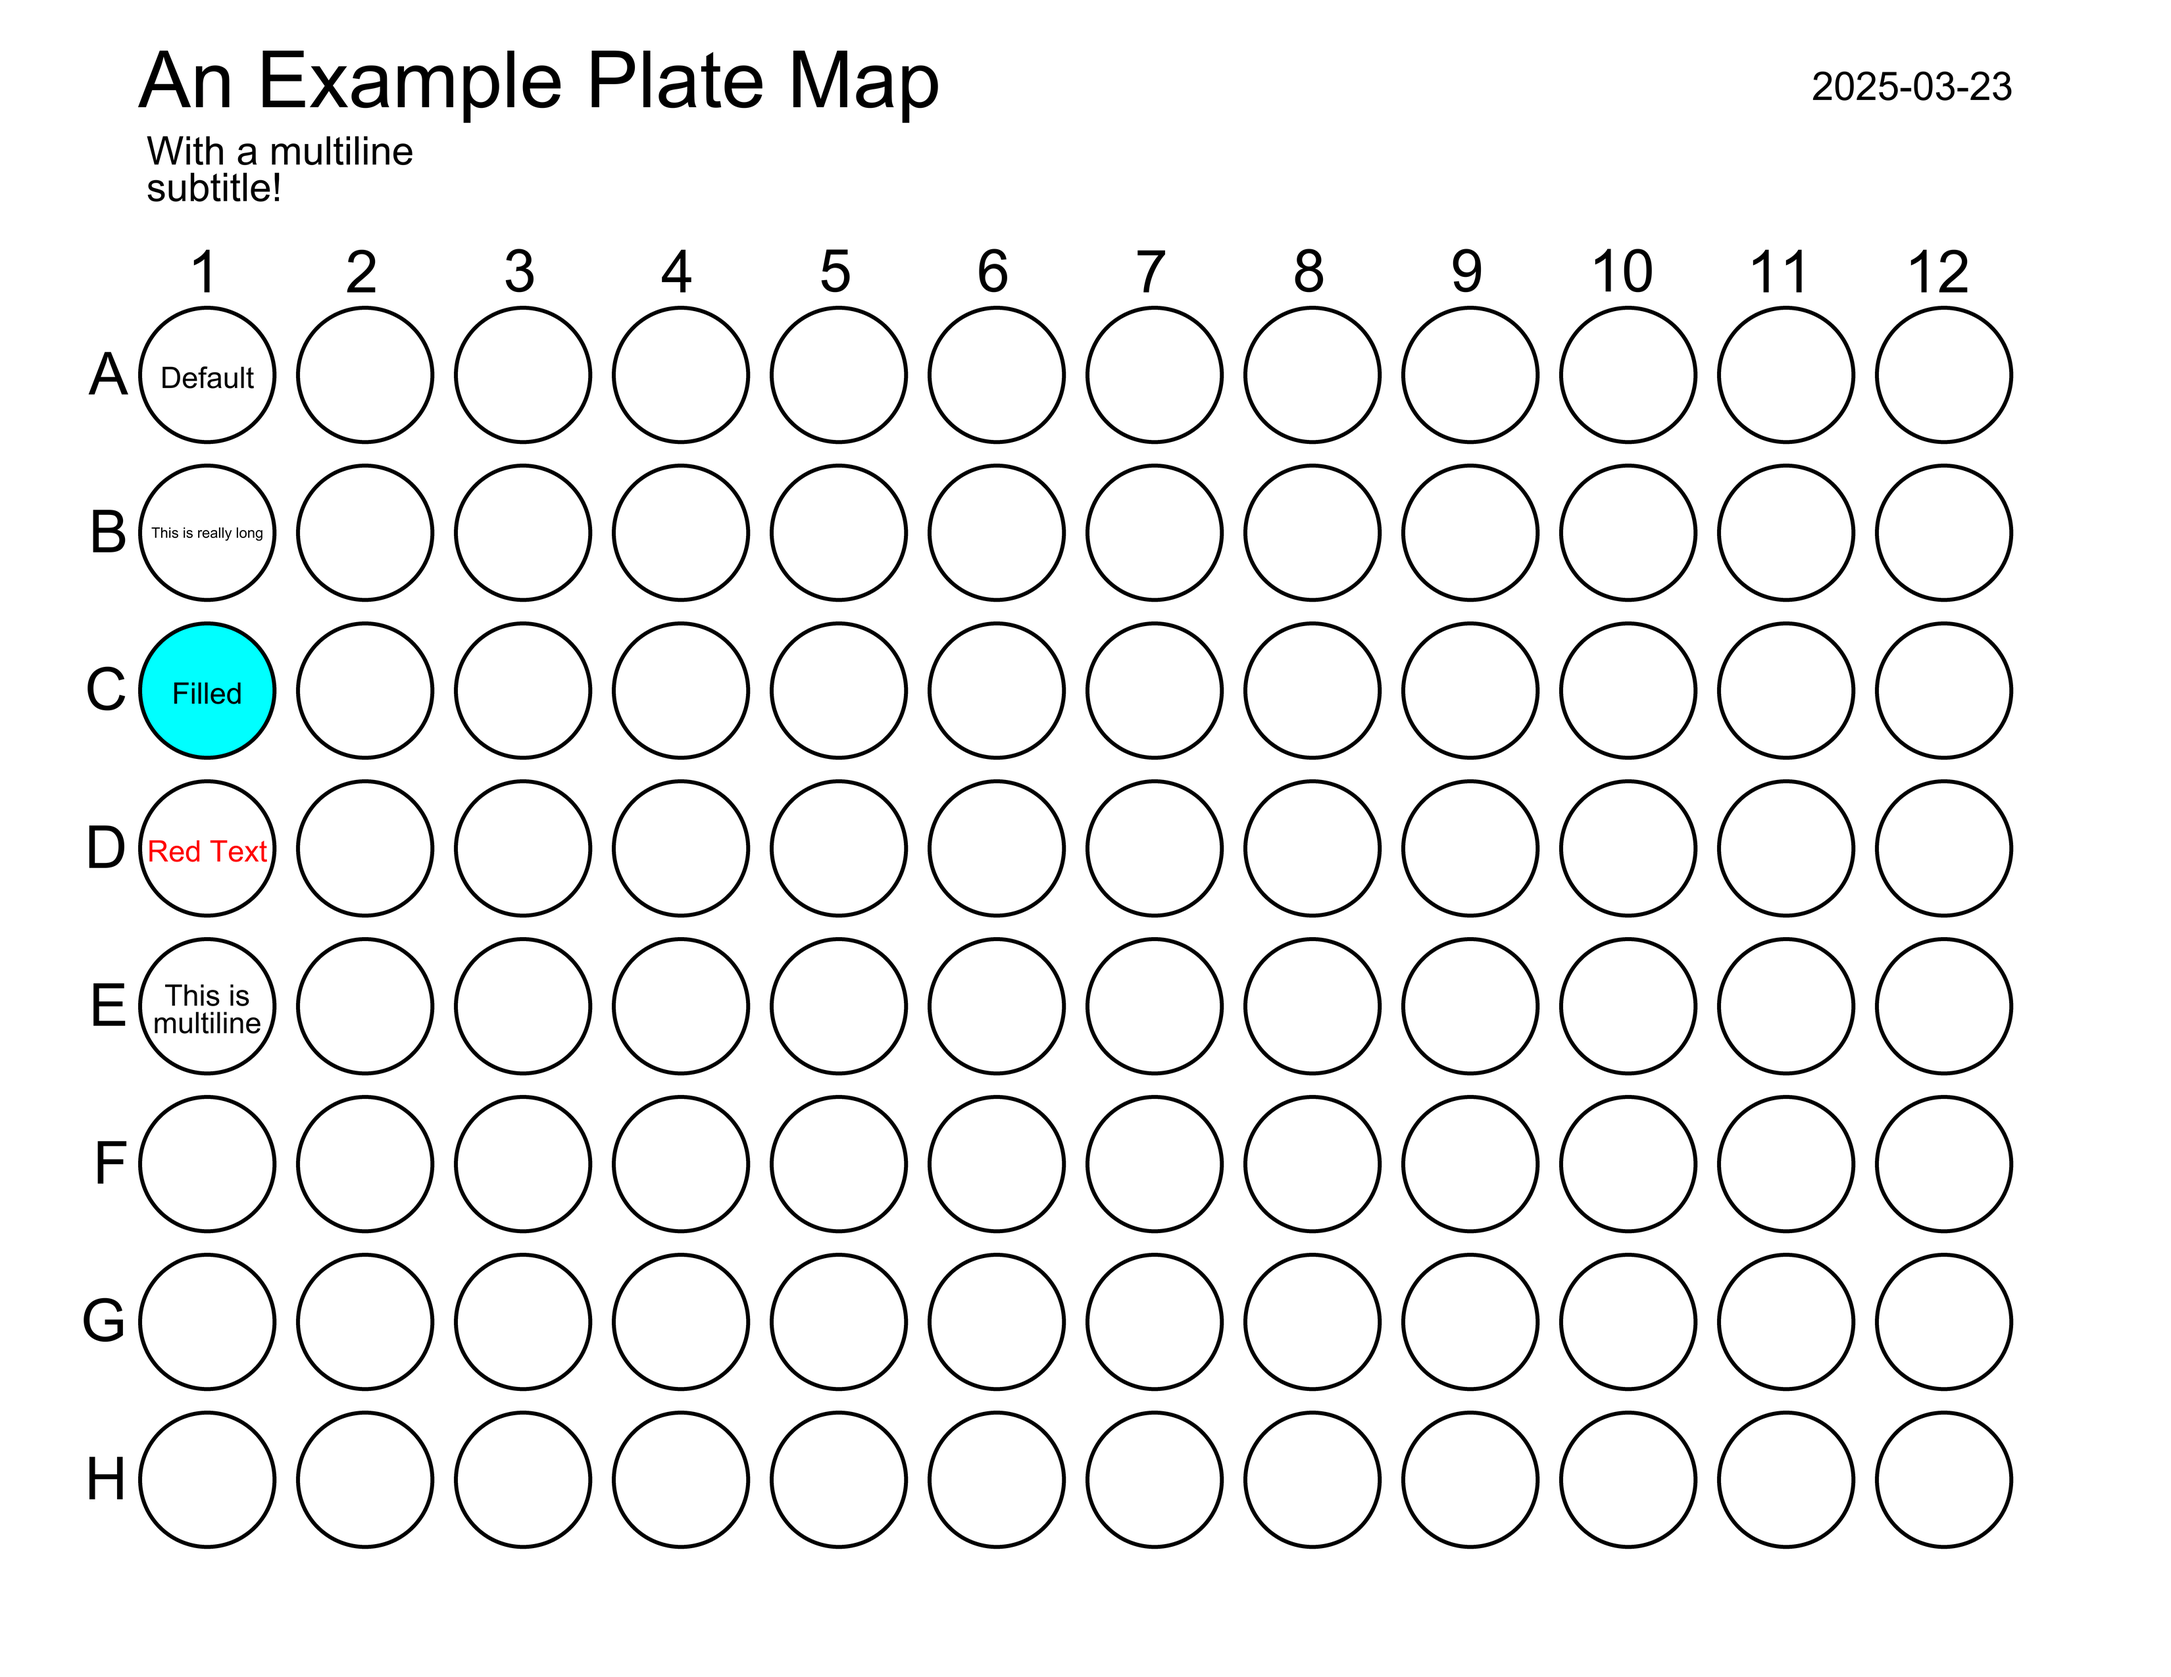
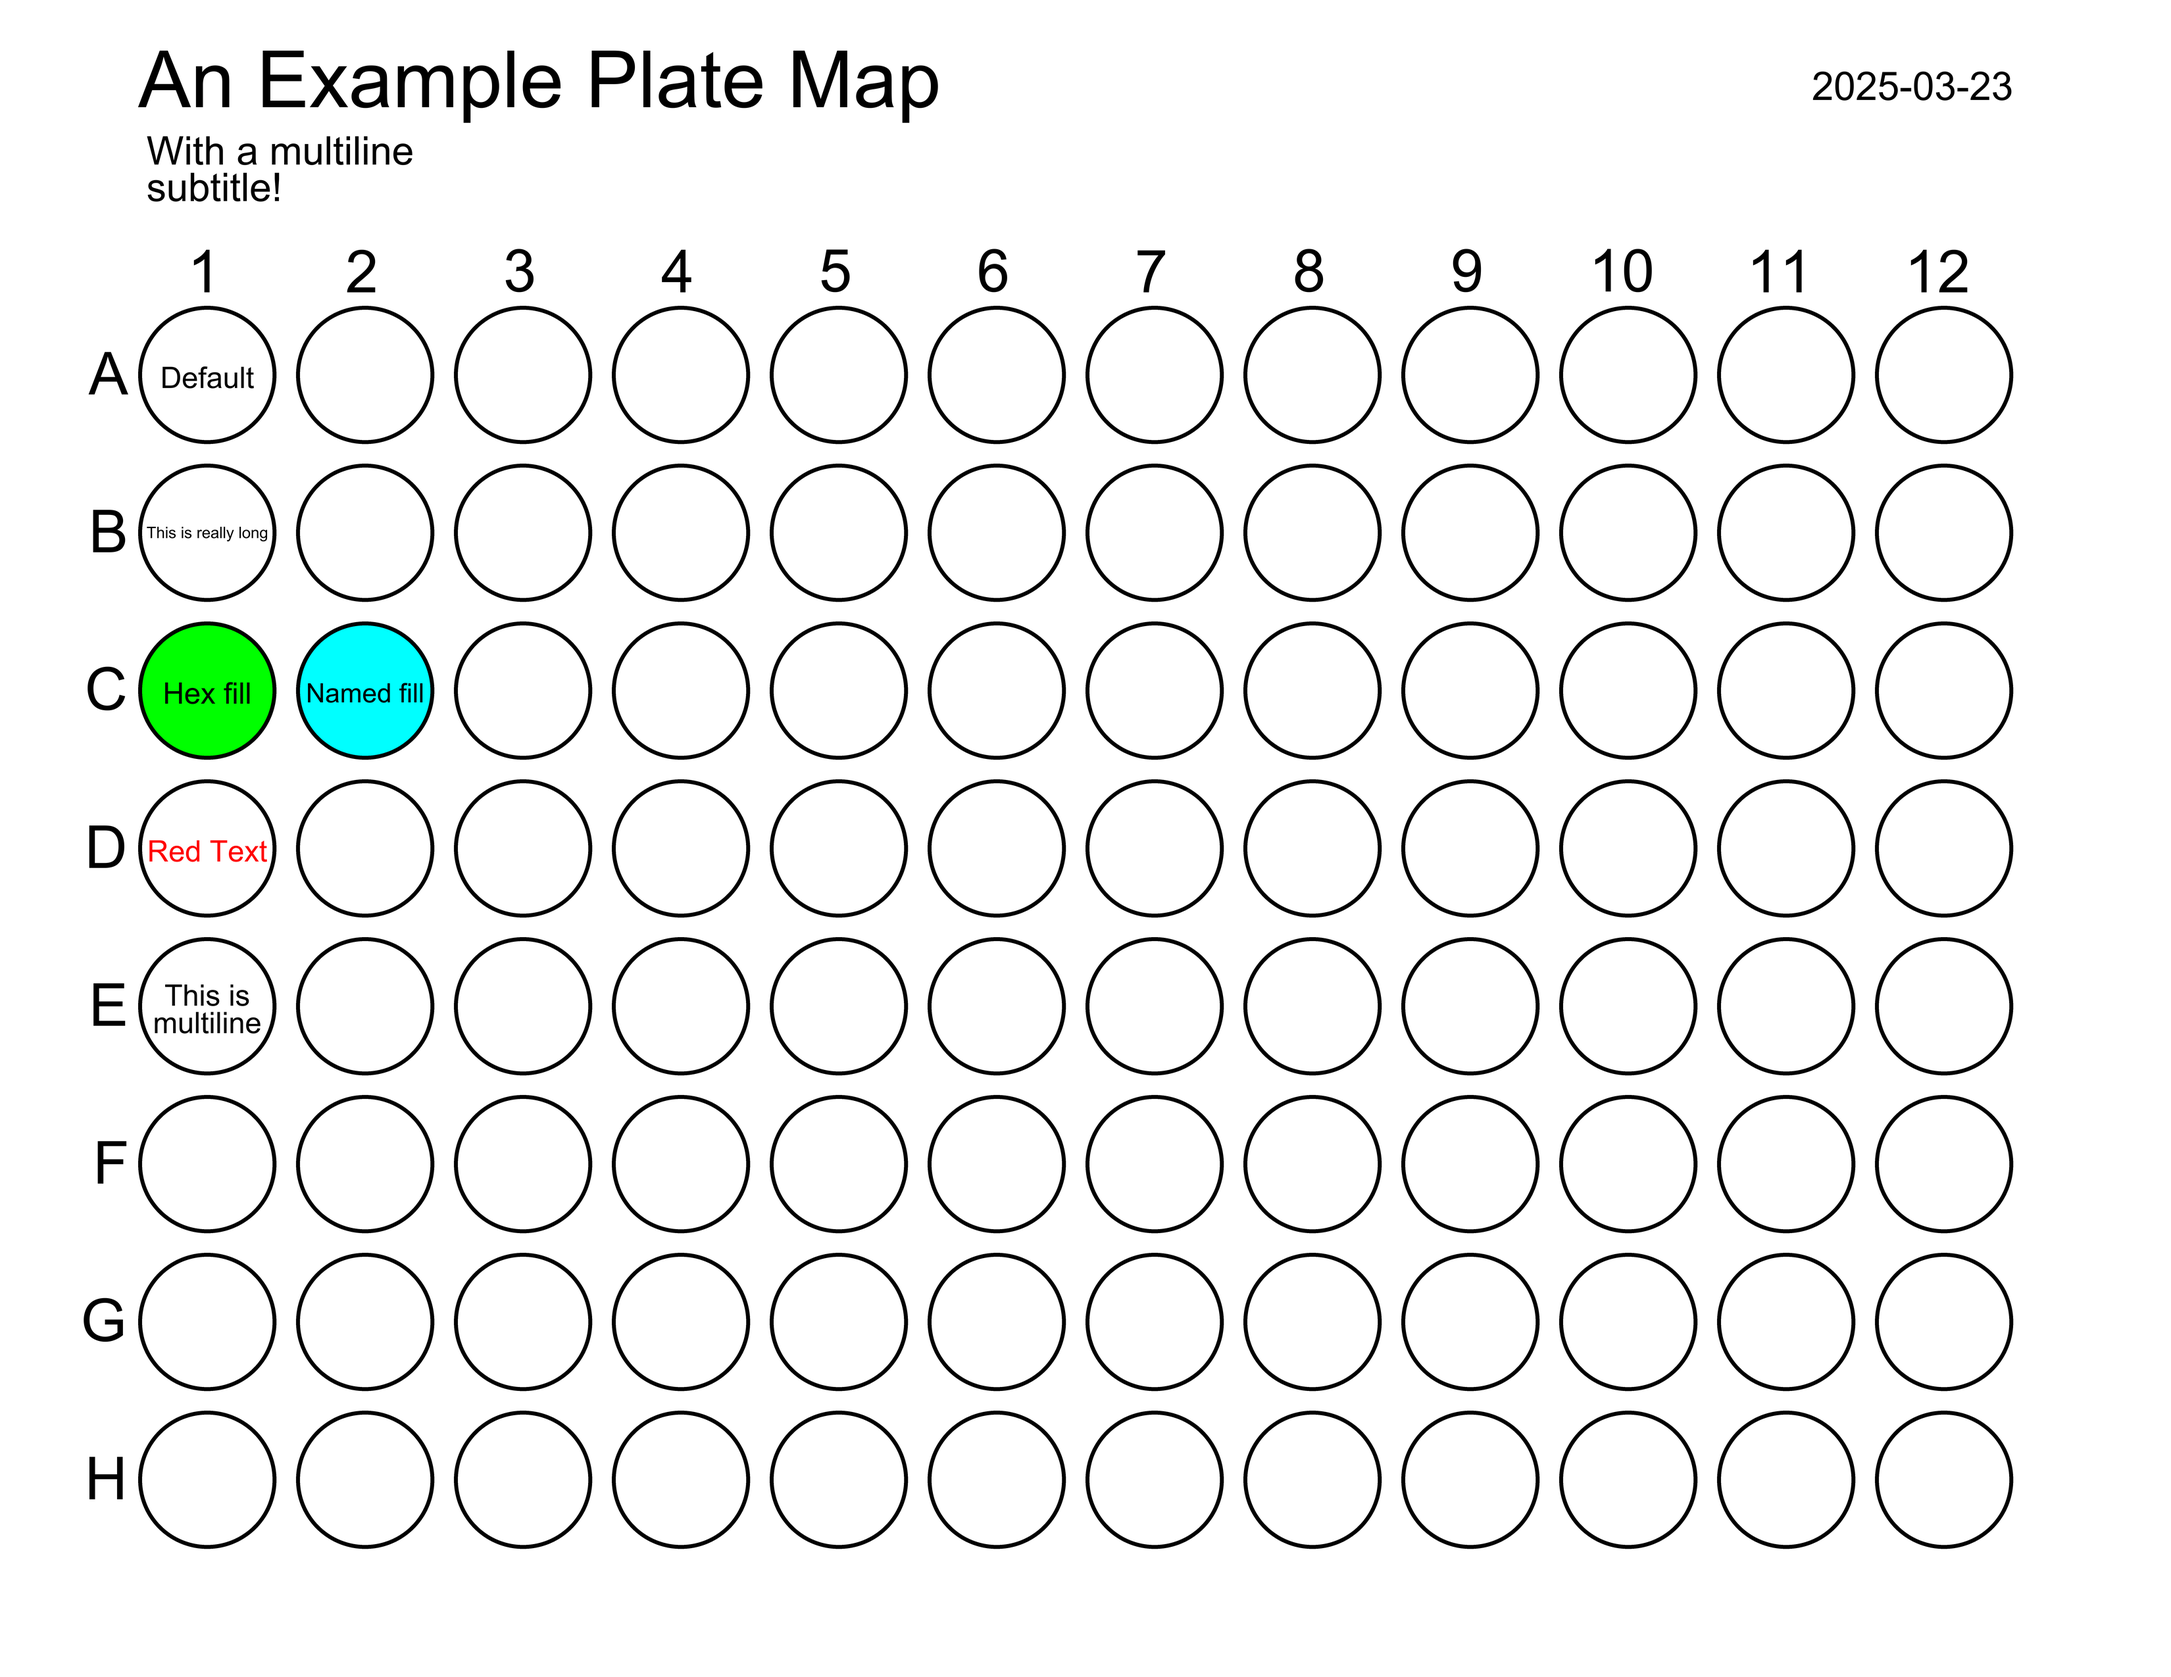
accept hex colour codes as well

Changed region(s): [[0.0624, 0.3718, 0.2185, 0.4647], [0.0936, 0.3098, 0.1248, 0.3408]]

diff --git a/plate_map_generator.py b/plate_map_generator.py
@@ -117,7 +117,18 @@ def draw_template_platemap(draw:ImageDraw.ImageDraw) -> None:
 def draw_annotations(draw:ImageDraw.ImageDraw, annots:dict) -> None:
     for annot in annots:
         coords = get_well_coords(annot['well'])
-        fill_color = webcolors.name_to_rgb(annot['fill']) if annot['fill'] else (255,255,255)
+        
+        try:
+            # Try name to RGB conversion
+            fill_color = webcolors.name_to_rgb(annot['fill'])
+        except ValueError:
+            try:
+                # Then hex to RGB ...
+                fill_color = webcolors.hex_to_rgb(annot['fill'])
+            except ValueError:
+                # Default to white if unspecified or problematic
+                fill_color = (255,255,255)
+    
         draw.circle(coords, 
                     WELL_DIAMETER/2, 
                     fill=fill_color,
@@ -130,13 +141,23 @@ def draw_annotations(draw:ImageDraw.ImageDraw, annots:dict) -> None:
         annot_height = draw.textbbox((0,0), label, align='center', font=annot_font)[3]
 
         red_annot_font_size = ANNOT_FONT_SIZE
-        while annot_width > WELL_DIAMETER:
-            red_annot_font_size = red_annot_font_size * 0.7
+        while annot_width*1.1 > WELL_DIAMETER:
+            red_annot_font_size = red_annot_font_size * 0.9
             annot_font = ImageFont.truetype("arial.ttf", red_annot_font_size) 
             annot_width = draw.textbbox((0,0), label, align='center', font=annot_font)[2]
             annot_height = draw.textbbox((0,0), label, align='center', font=annot_font)[3]
 
-        label_color = webcolors.name_to_rgb(annot['label_color']) if annot['label_color'] else (0,0,0)
+        try:
+            # Try name to RGB conversion
+            label_color = webcolors.name_to_rgb(annot['label_color'])
+        except ValueError:
+            try:
+                # Then hex to RGB ...
+                label_color = webcolors.hex_to_rgb(annot['label_color'])
+            except ValueError:
+                # Default to black if unspecified or problematic
+                label_color = (0,0,0)
+
         draw.text((coords[0] - annot_width/2,
                 coords[1] - annot_height/2),
                 text=label,
